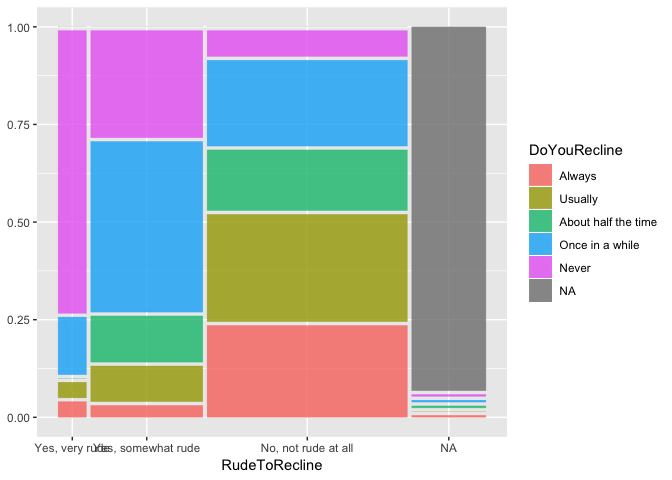
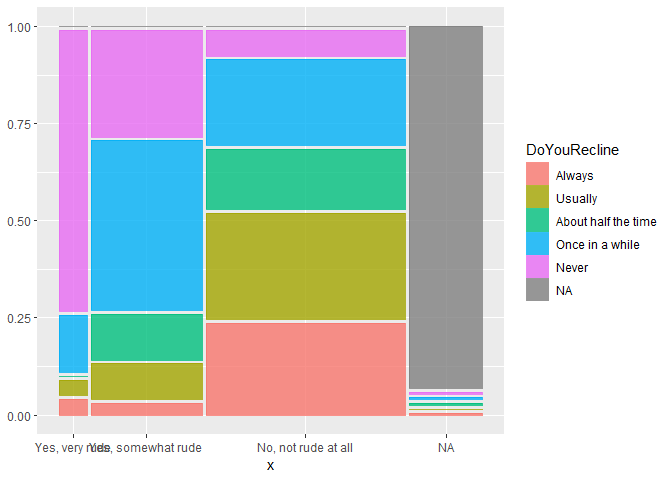
removed y variable and updated vignette and readme

diff --git a/README.md b/README.md
@@ -28,9 +28,9 @@ devtools::install_github("haleyjeppson/ggmosaic")
 ``` r
 library(ggmosaic)
 #> Loading required package: ggplot2
+#> Warning: package 'ggplot2' was built under R version 3.4.4
 ggplot(data = fly) +
-  geom_mosaic(aes(x = product(RudeToRecline), fill=DoYouRecline)) +
-  scale_x_productlist()
+  geom_mosaic(aes(x = product(RudeToRecline), fill=DoYouRecline))
 ```
 
 ![](man/figures/README-example-1.png)<!-- -->
